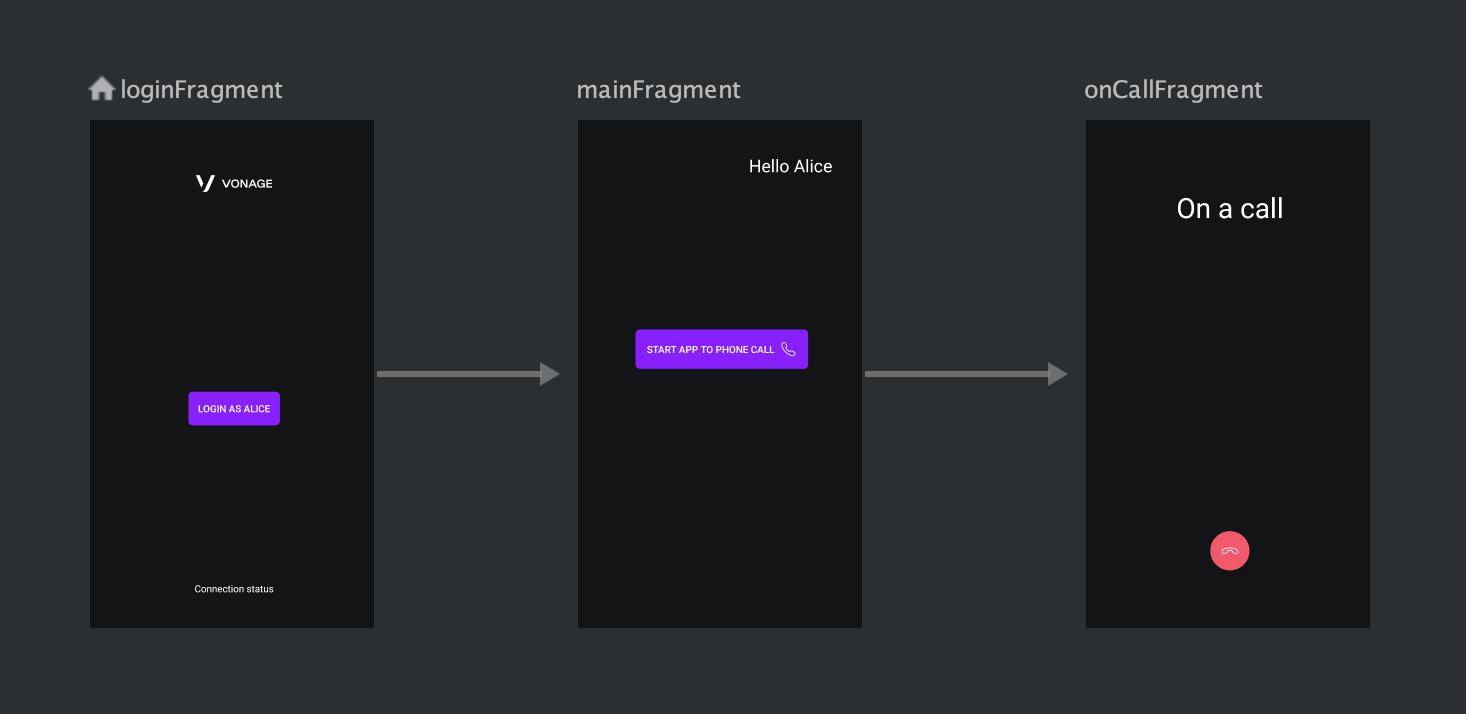
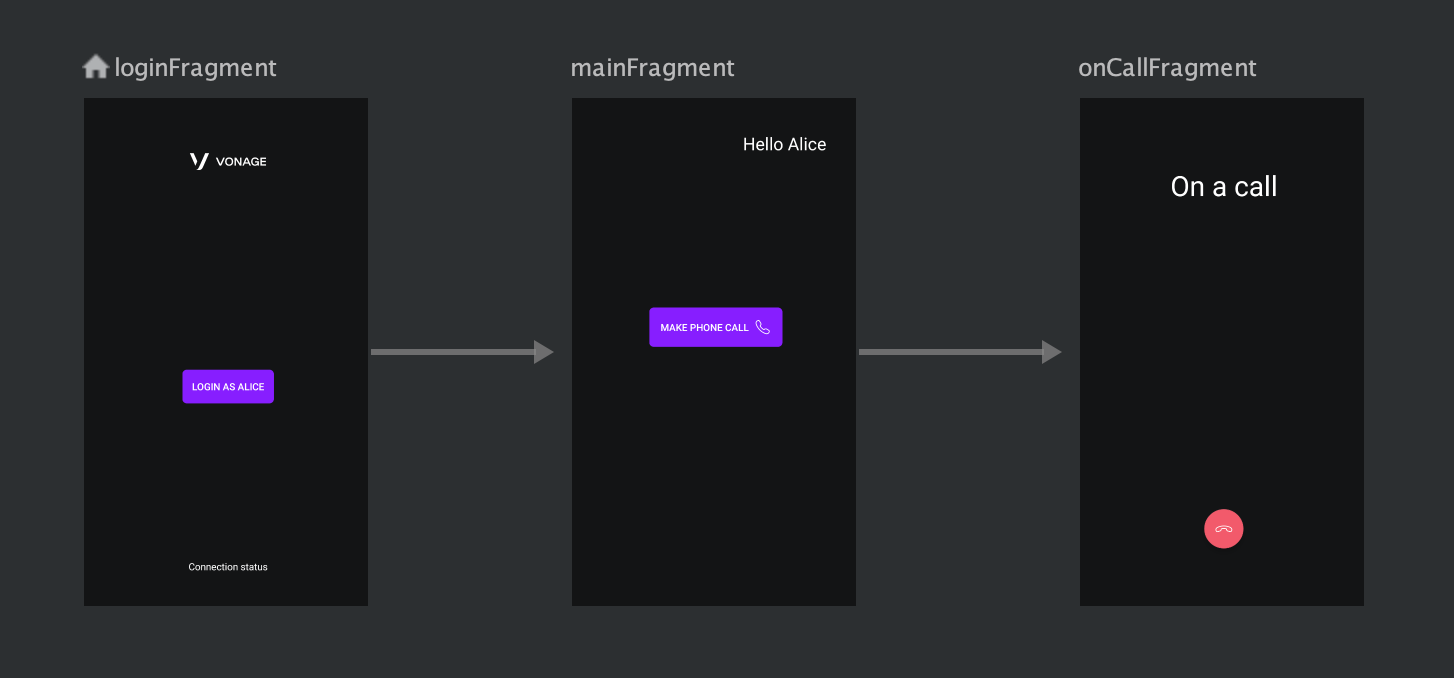
DEVX-3683 Update app to phone tutorial (#3031)
* Update nav graph label

* Update copy

* Assign user after login

* Remove unused prooperty

* Update desc

* Updated desc

* Update conection desc

* Add launch desc

* Update desc

* Update images

* Typo fix

* Typo fix

* Convert to subhearder

* Build project -> Make project

* Update copy

* Update copy

* Add colon

* Use colon

* Simplify desc

* Upercase

* Minor changes

diff --git a/_tutorials/en/client-sdk/app-to-phone/starter-project/kotlin.md b/_tutorials/en/client-sdk/app-to-phone/starter-project/kotlin.md
@@ -1,14 +1,21 @@
 ---
-title: The Starter Project
+title: The starter project
 description: In this step you will clone the starter project
 ---
 
-# The Starter Project
+# The starter project
 
-To make things easier, a `Starter` project is provided for you. It is a simple Android Studio project that contains an application with the following two screens:
+To make things easier, a starter project is provided for you.
 
 1. Clone this [GitHub project](https://github.com/nexmo-community/client-sdk-android-tutorial-voice-app-to-phone).
-2. Open the project in the `Android Studio` - navigate to the menu `File -> Open` and select the `kotlin-start` folder from cloned repository.
+
+2. Open the project in the `Android Studio`.
+
+3. Make the project `Build -> Make Project`, as shown in the following screenshot:
+   
+```screenshot
+image: public/screenshots/tutorials/client-sdk/android-shared/make-project.png
+```
 
 ## Project navigation overview
 
@@ -16,10 +23,10 @@ To make things easier, a `Starter` project is provided for you. It is a simple A
 image: public/screenshots/tutorials/client-sdk/android-app-to-phone/nav-graph.png
 ```
 
-The application consists of four screens: 
+The application consists of three screens:
 
 - **login** - responsible for logging the user
-- **main** - allows to start a call and listens for incoming call
+- **main** - allows to start a call
 - **on call** - displayed during ongoing call, allows to end current call
 
 ## Project internal structure
@@ -29,3 +36,5 @@ All files that will be modified during this tutorial are located in the `app/src
 ```screenshot
 image: public/screenshots/tutorials/client-sdk/android-app-to-phone/project-files.png
 ```
+
+> **NOTE:** Each view is represented by two classes: `Fragment` that is the thin view and `ViewModel` that handles the view logic.

diff --git a/_tutorials/en/client-sdk/android-shared/call/authenticate-alice/kotlin.md b/_tutorials/en/client-sdk/android-shared/call/authenticate-alice/kotlin.md
@@ -23,23 +23,24 @@ private val client = NexmoClient.get()
 
 ## Login user
 
-Your user must be authenticated to be able to participate in the Call. Login screen (`LoginFragment` and `LoginViewModel` classes) is responsible for authenticating the user.
+Your user must be authenticated to be able to participate in the Call. Locate the `onLoginUser` method inside `LoginViewModel` class and replace it with this code:
 
 ```kotlin
 fun onLoginUser(user: User) {
     if (!user.jwt.isBlank()) {
+        this.user = user
         client.login(user.jwt)
     }
 }
 ```
 
-> **NOTE:** Inside `LoginFragment` class, explore the `loginUser` method that was written for you. This method is called when one of the two `Login ...` buttons are clicked. This method calls the above `onLoginUser` method. 
+> **NOTE:** Inside `LoginFragment` class, explore the `loginUser` method that was written for you. This method is called when one of the two `Login ...` buttons are clicked. This method calls the above `onLoginUser` method.
 
 > **NOTE:** The `User` type is the `data class` that we've defined in the `Config.kt` file.
 
 ## Monitor connection state
 
-Now add a connection listener to listen to the `client` instance to listen for connection state changes and use `_connectionStatus` `LiveData` to propagate a new connection state to the view (`LoginFragment`). Locate the `init` block inside `LoginViewModel` class and replace it with this code:
+When a successful connection is established you need to navigate user to `MainFragment`. Locate the `init` block inside `LoginViewModel` class and replace it with this code:
 
 
 ```kotlin

diff --git a/_tutorials/en/client-sdk/app-to-app/starter-project/kotlin.md b/_tutorials/en/client-sdk/app-to-app/starter-project/kotlin.md
@@ -5,11 +5,20 @@ description: In this step you will clone the starter project
 
 # The Starter Project
 
-To make things easier, a `Starter` project is provided for you. It is a simple Android Studio project that contains an application with the following two screens:
+To make things easier, a starter project is provided for you.
 
 1. Clone this [GitHub project](https://github.com/nexmo-community/client-sdk-android-tutorial-voice-app-to-app).
 
-3. Open the project in the `Android Studio` - navigate to the menu `File -> Open` and select the `kotlin-start` folder from cloned repository.
+2. Open the project in the `Android Studio`:
+   
+   1. Navigate to the menu `File -> Open` 
+   2. Select the `kotlin-start` folder from cloned repository
+
+3. Make project `Build -> Make Project` 
+
+```screenshot
+image: public/screenshots/tutorials/client-sdk/android-shared/make-project.png
+```
 
 ## Project navigation overview
 
@@ -31,3 +40,5 @@ All files that will be modified during this tutorial are located in the `app/src
 ```screenshot
 image: public/screenshots/tutorials/client-sdk/android-app-to-app/project-files.png
 ```
+
+> **NOTE:** Each view is represented by two classes -> `Fragment` that is the thin view and `ViewModel` that handles the view logic.

diff --git a/_tutorials/en/client-sdk/in-app-messaging/starter-project/kotlin.md b/_tutorials/en/client-sdk/in-app-messaging/starter-project/kotlin.md
@@ -5,14 +5,24 @@ description: In this step you will clone the starter project
 
 # The Starter Project
 
-To make things easier, a `Starter` project is provided for you. It is a simple Android Studio project that contains an application with the following two screens:
+To make things easier, a starter project is provided for you.
 
 ```screenshot
 image: public/screenshots/tutorials/client-sdk/android-in-app-messaging-chat/login-screen.png
 ```
 
 1. Clone this [GitHub project](https://github.com/nexmo-community/client-sdk-android-tutorial-messaging).
-2. Open the project in the `Android Studio` - navigate to menu `File -> Open` and select the `kotlin-start` folder from cloned repository.
+
+2. Open the project in the `Android Studio`:
+   
+   1. Navigate to the menu `File -> Open` 
+   2. Select the `kotlin-start` folder from cloned repository
+
+3. Make project `Build -> Make Project`
+4. 
+```screenshot
+image: public/screenshots/tutorials/client-sdk/android-shared/make-project.png
+```
 
 All files that will be modified during this tutorial are located in the `app/src/main/java/com/vonage/tutorial/messaging/chat` directory:
 

diff --git a/_tutorials/en/client-sdk/android-shared/call/authenticate-alice-and-bob/kotlin.md b/_tutorials/en/client-sdk/android-shared/call/authenticate-alice-and-bob/kotlin.md
@@ -23,11 +23,12 @@ private val client = NexmoClient.get()
 
 ## Login user
 
-Now you should locate the `onLoginUser` method within the `LoginViewModel` class and fill its body to enable user login:
+Your user must be authenticated to be able to participate in the Call. Locate the `onLoginUser` method inside `LoginViewModel` class and replace it with this code:
 
 ```kotlin
 fun onLoginUser(user: User) {
     if (!user.jwt.isBlank()) {
+        this.user = user
         client.login(user.jwt)
     }
 }
@@ -39,7 +40,7 @@ fun onLoginUser(user: User) {
 
 ## Monitor connection state
 
-Now add a connection listener to listen to the `client` instance to listen for connection state changes and use `_connectionStatus` `LiveData` to propagate a new connection state to the view (`LoginFragment`). Locate the `init` block inside `LoginViewModel` class and replace it with this code:
+When a successful connection is established you need to navigate user to `MainFragment`. Locate the `init` block inside `LoginViewModel` class and replace it with this code:
 
 
 ```kotlin

diff --git a/_tutorials/en/client-sdk/app-to-phone/make-call/kotlin.md b/_tutorials/en/client-sdk/app-to-phone/make-call/kotlin.md
@@ -10,7 +10,6 @@ Locate the `startAppToAppCall` method within the `MainViewModel` class and fill 
 ```kotlin
 @SuppressLint("MissingPermission")
 fun startAppToPhoneCall() {
-    lastCalledUserName = ""
     client.call("IGNORED_NUMBER", NexmoCallHandler.SERVER, callListener)
     loadingMutableLiveData.postValue(true)
 }
@@ -26,4 +25,6 @@ startAppToPhoneCallButton.setOnClickListener {
 }
 ```
 
-Launch the app and make your first app to phone call.
+## Launch the app
+
+Launch the app and make your first app to phone call. You can either launch the app on the physical phone (with [USB Debugging enabled](https://developer.android.com/studio/debug/dev-options#enable)) or create new [Android Virtual Device](https://developer.android.com/studio/run/managing-avds).

diff --git a/_tutorials/en/client-sdk/in-app-messaging/authenticate-users/kotlin.md b/_tutorials/en/client-sdk/in-app-messaging/authenticate-users/kotlin.md
@@ -19,11 +19,12 @@ Now You have to retrieve client instance inside `LoginViewModel` class. Usually,
 private val client = NexmoClient.get()
 ```
 
-Locate the `onLoginUser` method within the `LoginViewModel` class and fill its body to enable user login:
+Your user must be authenticated to be able to participate in the Call. Locate the `onLoginUser` method inside `LoginViewModel` class and replace it with this code:
 
 ```kotlin
 fun onLoginUser(user: User) {
     if (!user.jwt.isBlank()) {
+        this.user = user
         client.login(user.jwt)
     }
 }

diff --git a/_tutorials/en/client-sdk/app-to-app/make-call/kotlin.md b/_tutorials/en/client-sdk/app-to-app/make-call/kotlin.md
@@ -26,4 +26,6 @@ startAppToAppCallButton.setOnClickListener {
 }
 ```
 
-Launch the app and make your first app to app call.
+## Launch the app
+
+Launch the app and make your first app to app call. You can either launch the app on the physical phone (with [USB Debugging enabled](https://developer.android.com/studio/debug/dev-options#enable)) or create new [Android Virtual Device](https://developer.android.com/studio/run/managing-avds).
